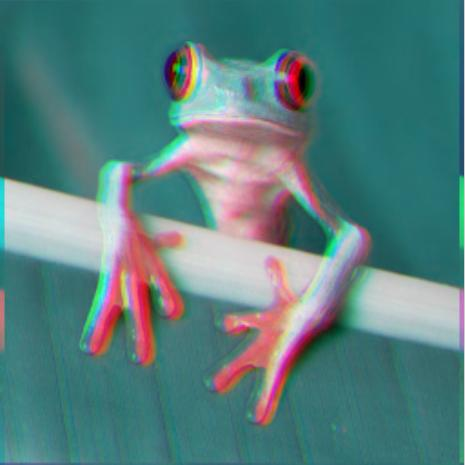
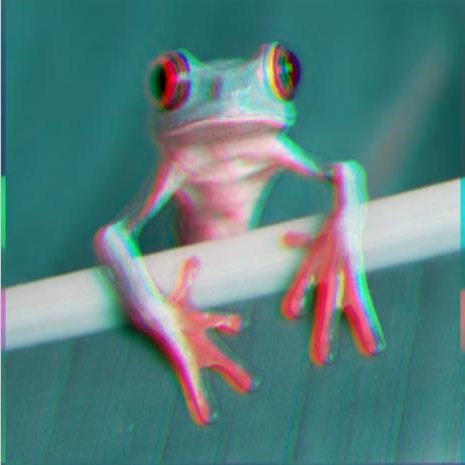
GLSL で画像にフィルタをかけてみるテスト（その２０改2）

diff --git a/cx20/w8X3/index.html b/cx20/w8X3/index.html
@@ -31,7 +31,7 @@ float random(vec2 ab)
 }
 
 void main(void) {
-    vec2 uv = gl_FragCoord.xy / resolution.xy;
+    vec2 uv = vTextureCoord; // gl_FragCoord.xy / resolution.xy;
     vec4 color = vec4(0.0);
 
     float go = sin(time) * 0.01;
@@ -39,9 +39,9 @@ void main(void) {
     //vec2 strenght = vec2(5, 2) * random(uv);
     vec2 strenght = vec2(5, 2) * random(vec2(sin(time),sin(time)));
 
-    color.r = texture2D(texture, -uv - vec2(go, 0.0) * strenght).r;
-    color.g = texture2D(texture, -uv - vec2(0.005, go2) * strenght).g;
-    color.b = texture2D(texture, -uv).g;
+    color.r = texture2D(texture, uv - vec2(go, 0.0) * strenght).r;
+    color.g = texture2D(texture, uv - vec2(0.005, go2) * strenght).g;
+    color.b = texture2D(texture, uv).g;
     color.a = 1.0;
 
     gl_FragColor = color;
